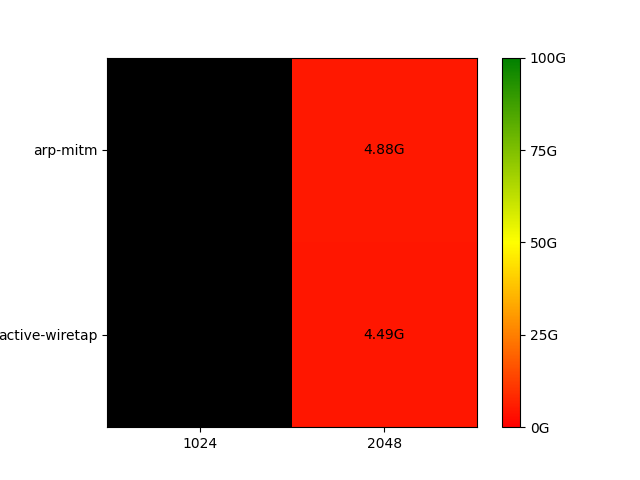
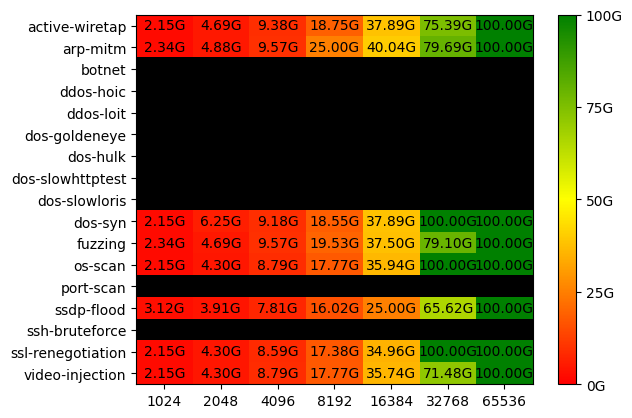
first results for sampling rate

diff --git a/testbed/sampling-rate-plot.py b/testbed/sampling-rate-plot.py
@@ -66,7 +66,7 @@ def plot(data):
 	min_rate = 0
 	max_rate = 100
 	
-	attacks        = list(data.keys())
+	attacks        = sorted(list(data.keys()))
 	sampling_rates = []
 	matrix         = [ [] for _ in range(len(attacks)) ]
 
@@ -80,9 +80,8 @@ def plot(data):
 
 	print('Sampling rates', sampling_rates)
 	print('Attacks', attacks)
-
-	width  = len(sampling_rates)
-	height = len(attacks)
+	for row in matrix:
+		print(row)
 
 	# colormap = plt.cm.jet
 	colormap = mpl.colormaps['RdYlGn']
@@ -92,20 +91,23 @@ def plot(data):
 	cmap = mpl.colors.LinearSegmentedColormap.from_list("mycmap", list(zip(nodes, colors)))
 	cmap.set_under('black')
 
-	res = ax.imshow(matrix, cmap=cmap, vmin=min_rate, vmax=max_rate, interpolation='nearest')
+	res = ax.imshow(matrix, cmap=cmap, vmin=min_rate, vmax=max_rate, interpolation='nearest', aspect='auto')
 
-	for x in range(width):
-		for y in range(height):
+	for x in range(len(matrix)):
+		for y in range(len(matrix[x])):
 			gbps = matrix[x][y]
 			ax.annotate(f'{gbps:.2f}G', xy=(y,x), va='center', ha='center')
 
 	cbar = fig.colorbar(res, ticks=[ 0, 25, 50, 75, 100 ])
 	cbar.ax.set_yticklabels([ '0G', '25G', '50G', '75G', '100G' ])
 
+	width  = len(sampling_rates)
+	height = len(attacks)
+
 	plt.xticks(range(width), sampling_rates)
 	plt.yticks(range(height), attacks)
 
-	plt.savefig(PLOT)
+	plt.savefig(PLOT, bbox_inches='tight')
 	plt.show()
 
 if __name__ == '__main__':

diff --git a/testbed/hosts/Host.py b/testbed/hosts/Host.py
@@ -35,11 +35,13 @@ class Host:
 		cmd = [ 'ssh' ] + ssh_flags + [ self.hostname, remote_cmd ]
 
 		if silence or capture_output:
-			proc = subprocess.run(cmd, capture_output=True, text=True)
+			stdout = subprocess.PIPE
+			stderr = subprocess.PIPE
 		else:
 			stdout = subprocess.DEVNULL if background else None
 			stderr = subprocess.DEVNULL if background else None
-			proc = subprocess.run(cmd, stdout=stdout, stderr=stderr)
+
+		proc = subprocess.run(cmd, stdout=stdout, stderr=stderr)
 
 		if not background and must_succeed and proc.returncode != 0:
 			self.log(f'Command failed.')
@@ -55,8 +57,8 @@ class Host:
 
 			exit(1)
 
-		out = proc.stdout if capture_output else None
-		err = proc.stderr if capture_output else None
+		out = proc.stdout.decode('utf-8') if capture_output else None
+		err = proc.stderr.decode('utf-8') if capture_output else None
 
 		return proc.returncode, out, err
 	

diff --git a/testbed/sampling-rate.py b/testbed/sampling-rate.py
@@ -52,12 +52,7 @@ if __name__ == '__main__':
 		tofino.modify_sampling_rate(sampling_rate)
 		tofino.install()
 
-		n_tests = 0
 		for test in tests['tests']:
-			if n_tests >= 2:
-				break
-			n_tests += 1
-
 			attack = test['attack']
 			print(f"[*] attack={attack} sampling_rate={sampling_rate}")
 			rate, rx_rate_pps, tx_rate_pps = util.find_stable_throughput(tofino, engine, kitnet, tg_dpdk, testbed, test)

diff --git a/testbed/util.py b/testbed/util.py
@@ -173,6 +173,4 @@ def find_stable_throughput(tofino, engine, kitnet, tg_dpdk, testbed, test, verbo
 	if verbose:
 		print(f'  Best rate {best_rate:3.2f}% rx {compact(best_rx_rate_pps)}pps tx {compact(best_tx_rate_pps)}pps loss {100 * best_loss:.2f}%')
 
-	if loss <= LOSS_THRESHOLD:
-		return best_rate, best_rx_rate_pps, best_tx_rate_pps
-	return -1, -1, -1
+	return best_rate, best_rx_rate_pps, best_tx_rate_pps
